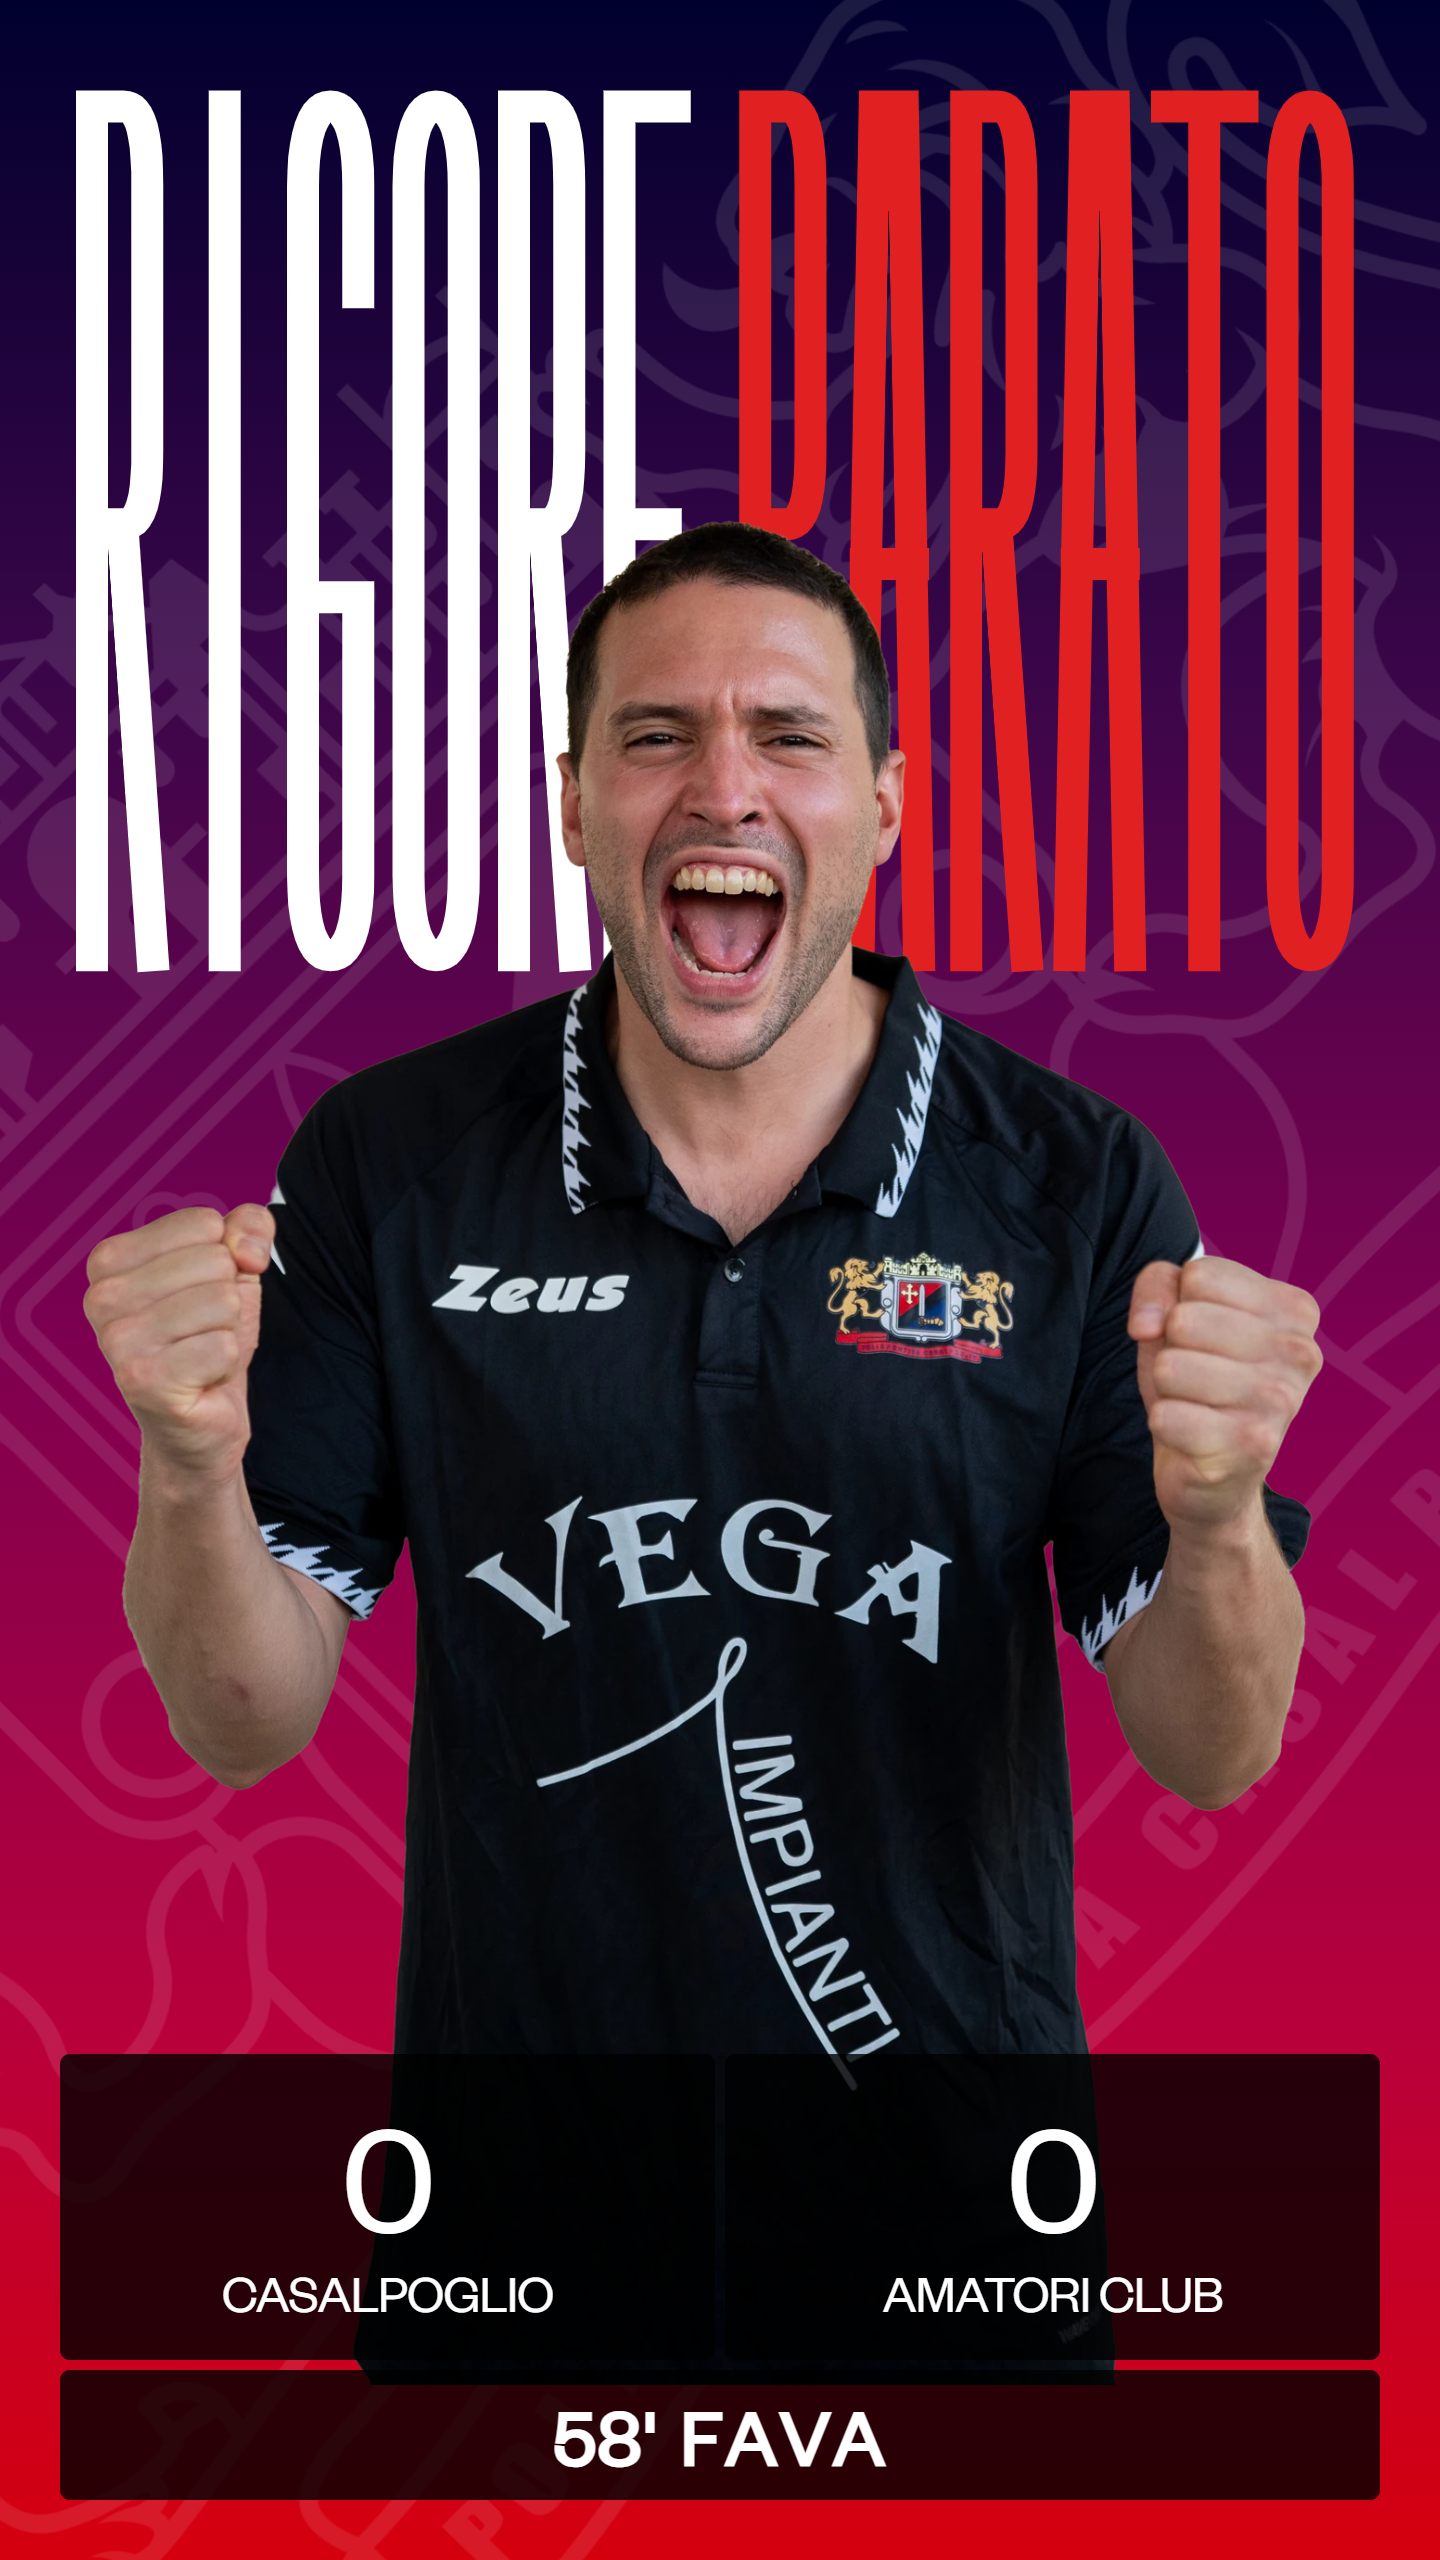
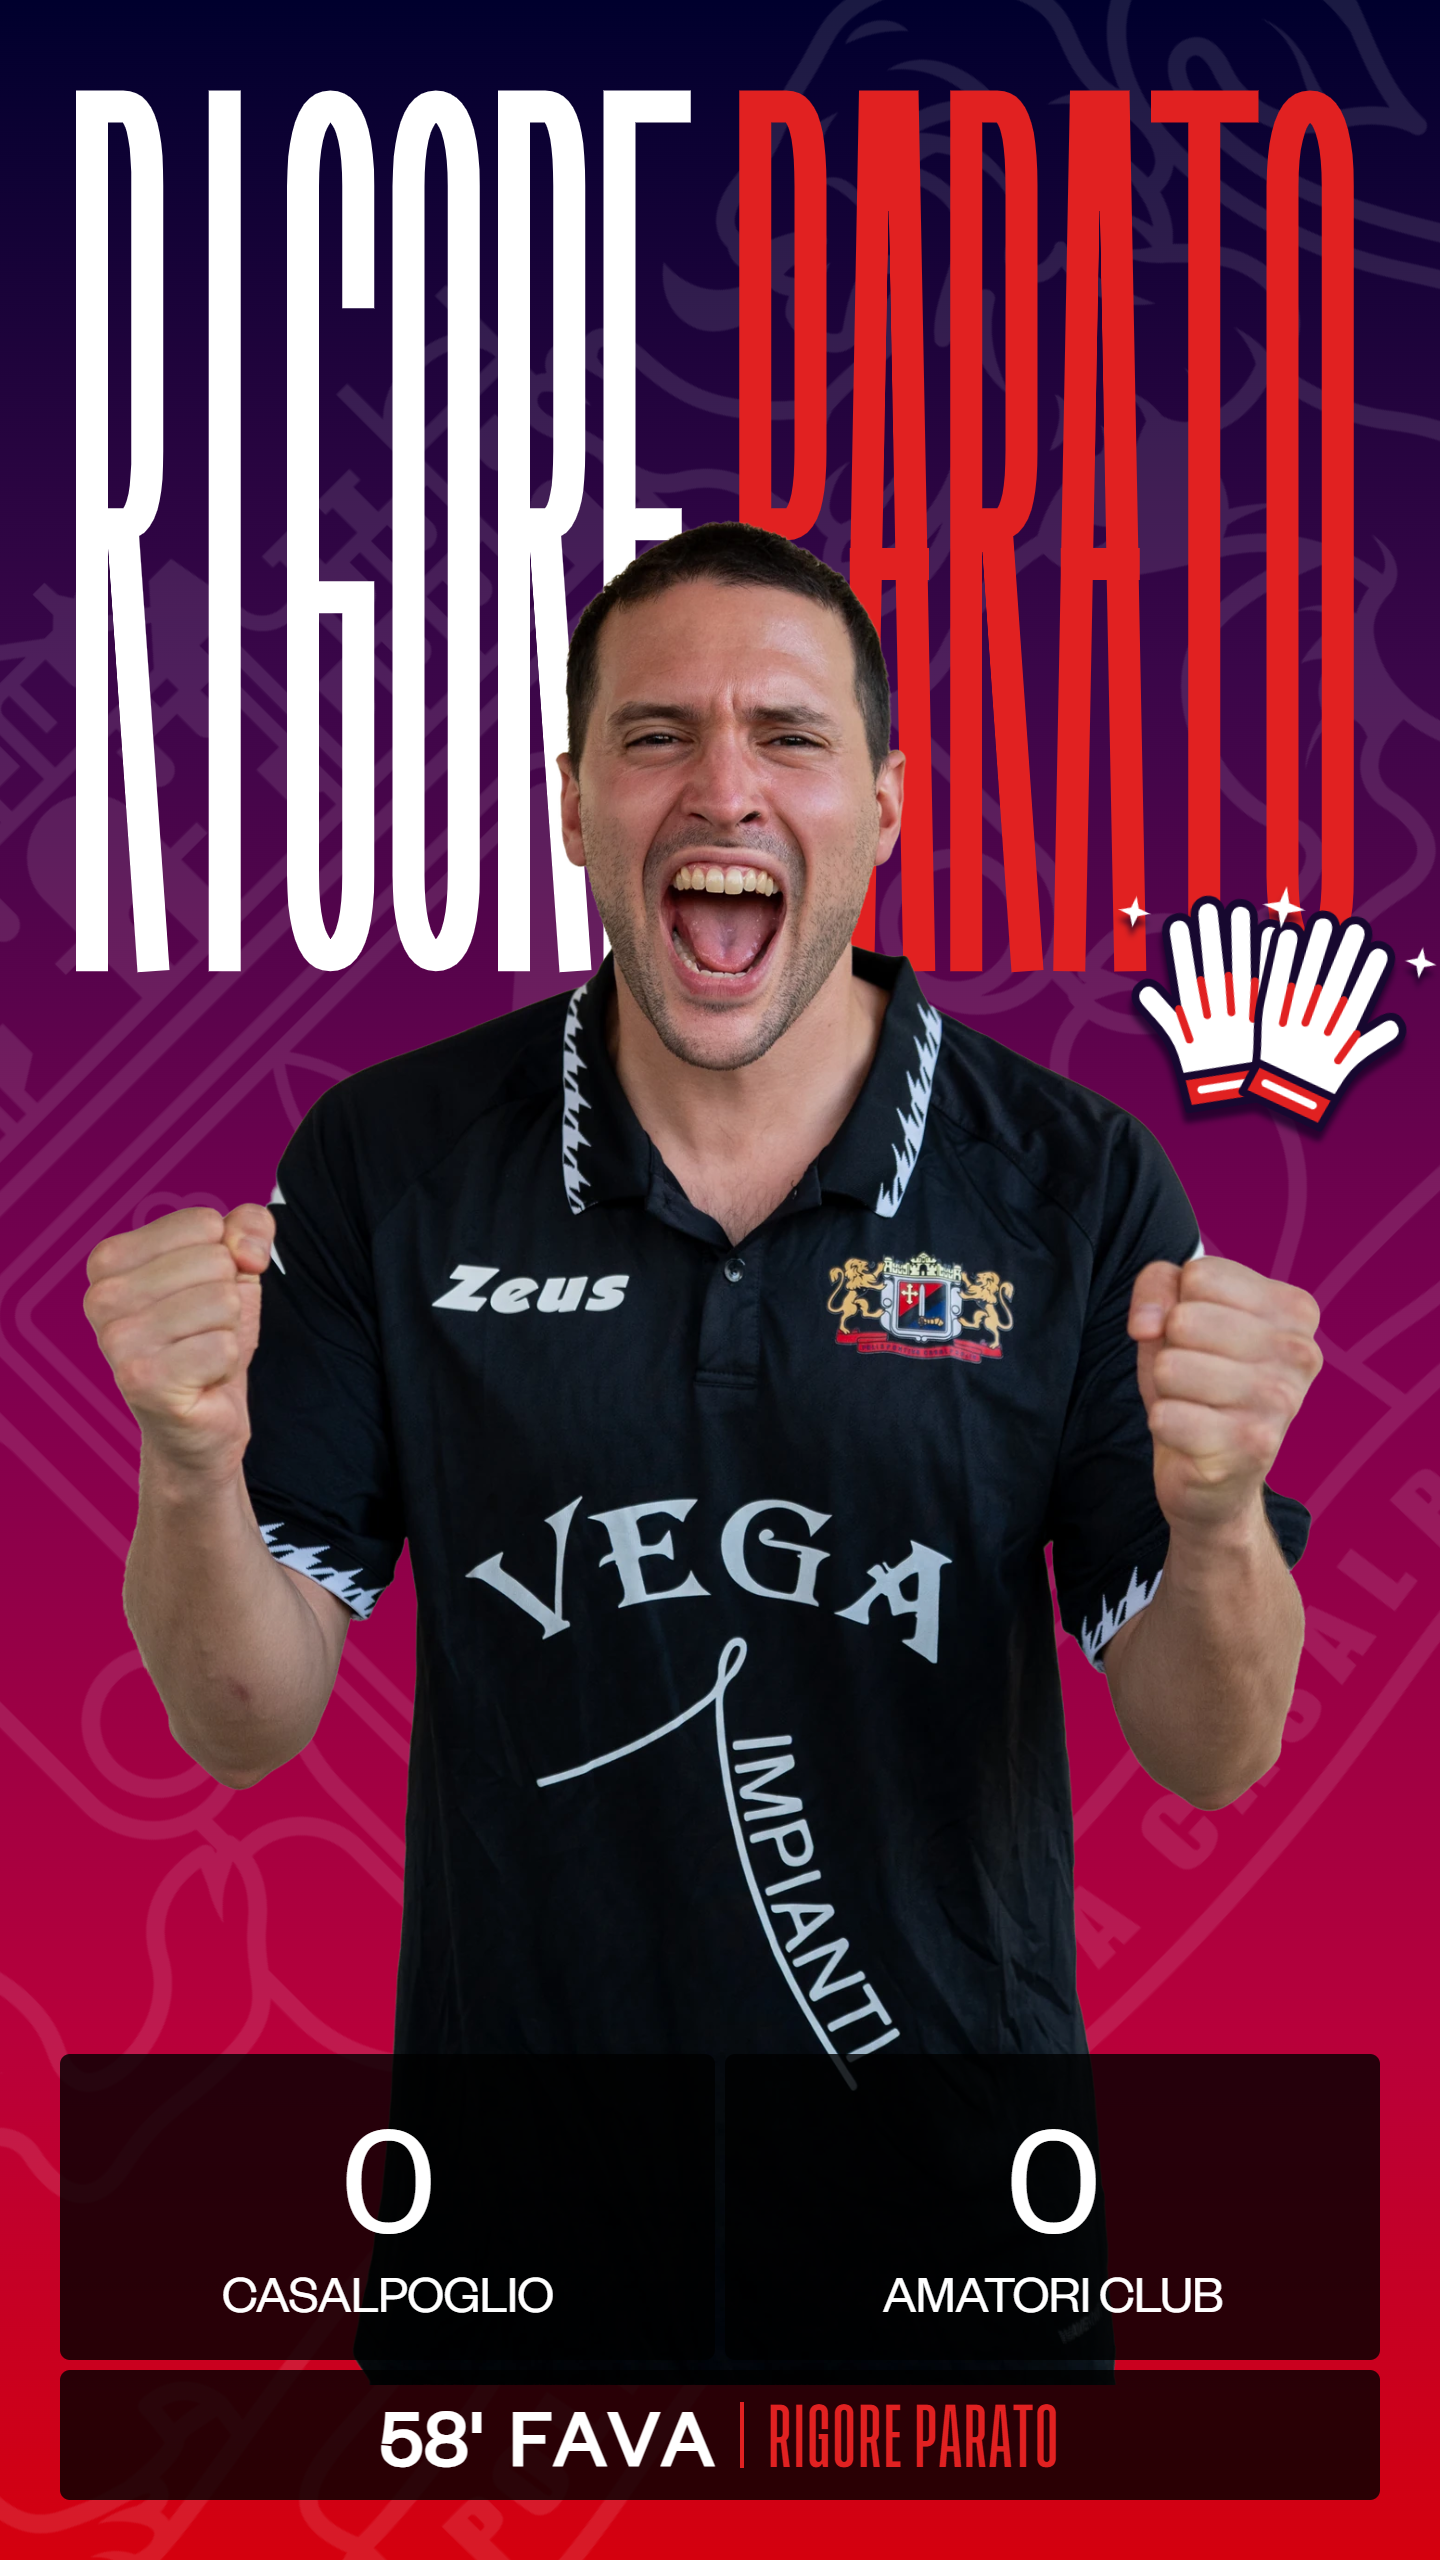
feat: aggiungi sticker guanti e dicitura rigore parato

Changed region(s): [[0.7812, 0.3438, 1.0, 0.4688], [0.25, 0.9375, 0.75, 0.9688]]

diff --git a/lambda/goal-image/index.js b/lambda/goal-image/index.js
@@ -54,6 +54,27 @@ function renderPenaltyTitle() {
   return `<svg class="save-title" viewBox="0 0 1290 900" role="img" aria-label="Rigore parato" xmlns="http://www.w3.org/2000/svg">${letters}</svg>`;
 }
 
+function renderSaveGloves() {
+  return `<svg class="save-gloves" viewBox="0 0 320 250" aria-hidden="true" xmlns="http://www.w3.org/2000/svg">
+    <defs>
+      <path id="keeper-glove" d="M40 202 L35 165 C33 151 27 139 17 124 L7 108 C2 99 5 91 12 87 C20 82 27 87 32 95 L46 117 L46 40 C46 29 52 23 60 23 C68 23 74 29 74 40 L74 91 L78 25 C79 15 85 10 93 10 C102 11 107 18 106 28 L103 91 L111 32 C113 22 120 17 128 19 C136 21 140 28 138 38 L129 101 L139 56 C142 46 149 42 157 45 C165 48 168 56 165 66 L151 129 C145 157 131 171 125 202 Z" />
+    </defs>
+    <g class="glove-left" transform="translate(18 13) rotate(-17 85 115)">
+      <use href="#keeper-glove" />
+      <path class="glove-seam" d="M47 117 L53 150 M74 91 L75 128 M103 91 L100 129 M129 101 L121 139" />
+      <path class="glove-cuff" d="M38 187 L127 187 L129 221 L41 221 Z" />
+      <path class="glove-cuff-line" d="M57 203 L111 203" />
+    </g>
+    <g class="glove-right" transform="translate(302 13) scale(-1 1) rotate(-17 85 115)">
+      <use href="#keeper-glove" />
+      <path class="glove-seam" d="M47 117 L53 150 M74 91 L75 128 M103 91 L100 129 M129 101 L121 139" />
+      <path class="glove-cuff" d="M38 187 L127 187 L129 221 L41 221 Z" />
+      <path class="glove-cuff-line" d="M57 203 L111 203" />
+    </g>
+    <path class="glove-spark" d="M160 0 L165 17 L182 22 L165 27 L160 44 L155 27 L138 22 L155 17 Z M8 32 L12 44 L24 48 L12 52 L8 64 L4 52 L-8 48 L4 44 Z M308 43 L312 55 L324 59 L312 63 L308 75 L304 63 L292 59 L304 55 Z" />
+  </svg>`;
+}
+
 function resolveGoalPlayerAssetKey(player, goalCount = 1) {
   if (!player) return catalog.fallbackPlayerAssetKey;
   if (goalCount === 2) {
@@ -325,6 +346,60 @@ const createHandler = (renderer = renderHtmlToPng) => async (event, context) => 
       stroke-linecap:round;
       stroke-linejoin:round;
     }
+    .save-gloves{
+      position:absolute;
+      z-index:35;
+      top:885px;
+      right:55px;
+      width:310px;
+      height:auto;
+      overflow:visible;
+      transform:rotate(8deg);
+      filter:drop-shadow(0 10px 3px rgba(20,0,35,.75));
+      pointer-events:none;
+    }
+    .save-gloves use{
+      fill:#fff;
+      stroke:#17082f;
+      stroke-width:8;
+      stroke-linejoin:round;
+    }
+    .save-gloves .glove-seam{
+      fill:none;
+      stroke:#e12121;
+      stroke-width:8;
+      stroke-linecap:round;
+    }
+    .save-gloves .glove-cuff{
+      fill:#e12121;
+      stroke:#17082f;
+      stroke-width:8;
+      stroke-linejoin:round;
+    }
+    .save-gloves .glove-cuff-line{
+      fill:none;
+      stroke:#fff;
+      stroke-width:8;
+      stroke-linecap:round;
+    }
+    .save-gloves .glove-spark{
+      fill:#fff;
+    }
+    .card .grid .gol--save{
+      gap:24px;
+      padding-left:32px;
+      padding-right:32px;
+    }
+    .save-label{
+      color:#e12121;
+      font-family:'Tusker',sans-serif;
+      font-size:66px;
+      font-weight:500;
+      letter-spacing:2px;
+      white-space:nowrap;
+      border-left:4px solid #e12121;
+      padding-left:24px;
+    }
   </style>
 </head>
 <body>
@@ -354,6 +429,7 @@ const createHandler = (renderer = renderHtmlToPng) => async (event, context) => 
       <img src="${absolutePlayerImageUrl}" alt="${escapeHtml(playerName)}" />
     </div>
     ${milestoneMarkup}
+    ${isPenaltySave ? renderSaveGloves() : ''}
     
     <div class="grid">
       <div class="result">
@@ -364,9 +440,10 @@ const createHandler = (renderer = renderHtmlToPng) => async (event, context) => 
         <span>${awayScore}</span>
         <span class="squ">${escapeHtml(awayTeam.toUpperCase())}</span>
       </div>
-      <div class="gol">
+      <div class="gol${isPenaltySave ? ' gol--save' : ''}">
         <span style="letter-spacing: 2px !important; font-kerning: none !important;">${minuteGoal}'</span>
         <span style="letter-spacing: 2px !important; font-kerning: none !important;">${escapeHtml(playerName.toUpperCase())}</span>
+        ${isPenaltySave ? '<span class="save-label">RIGORE PARATO</span>' : ''}
         ${goalBallsMarkup}
       </div>
     </div>

diff --git a/lambda/tests/handlers.test.js b/lambda/tests/handlers.test.js
@@ -134,6 +134,8 @@ test('goal: la grafica classica non mostra elementi da doppietta o tripletta', a
   assert.equal(response.statusCode, 200);
   assert.equal(renderedHtml.includes('class="milestone milestone-'), false);
   assert.equal(renderedHtml.includes('class="goal-ball"'), false);
+  assert.equal(renderedHtml.includes('class="save-gloves"'), false);
+  assert.equal(renderedHtml.includes('class="save-label"'), false);
 });
 
 test('rigore parato: usa il layout del goal con titolo dedicato', async () => {
@@ -153,6 +155,8 @@ test('rigore parato: usa il layout del goal con titolo dedicato', async () => {
   assert.match(renderedHtml, /<svg class="save-title"[^>]*aria-label="Rigore parato"/);
   assert.equal((renderedHtml.match(/stroke="#ffffff"/g) || []).length, 6);
   assert.equal((renderedHtml.match(/stroke="#e12121"/g) || []).length, 6);
+  assert.match(renderedHtml, /<svg class="save-gloves"/);
+  assert.match(renderedHtml, /<span class="save-label">RIGORE PARATO<\/span>/);
   assert.doesNotMatch(renderedHtml, /class="save-symbol"/);
   assert.doesNotMatch(renderedHtml, /class="save-detail"/);
   assert.match(renderedHtml, /<span style="letter-spacing: 2px !important; font-kerning: none !important;">58'<\/span>/);
